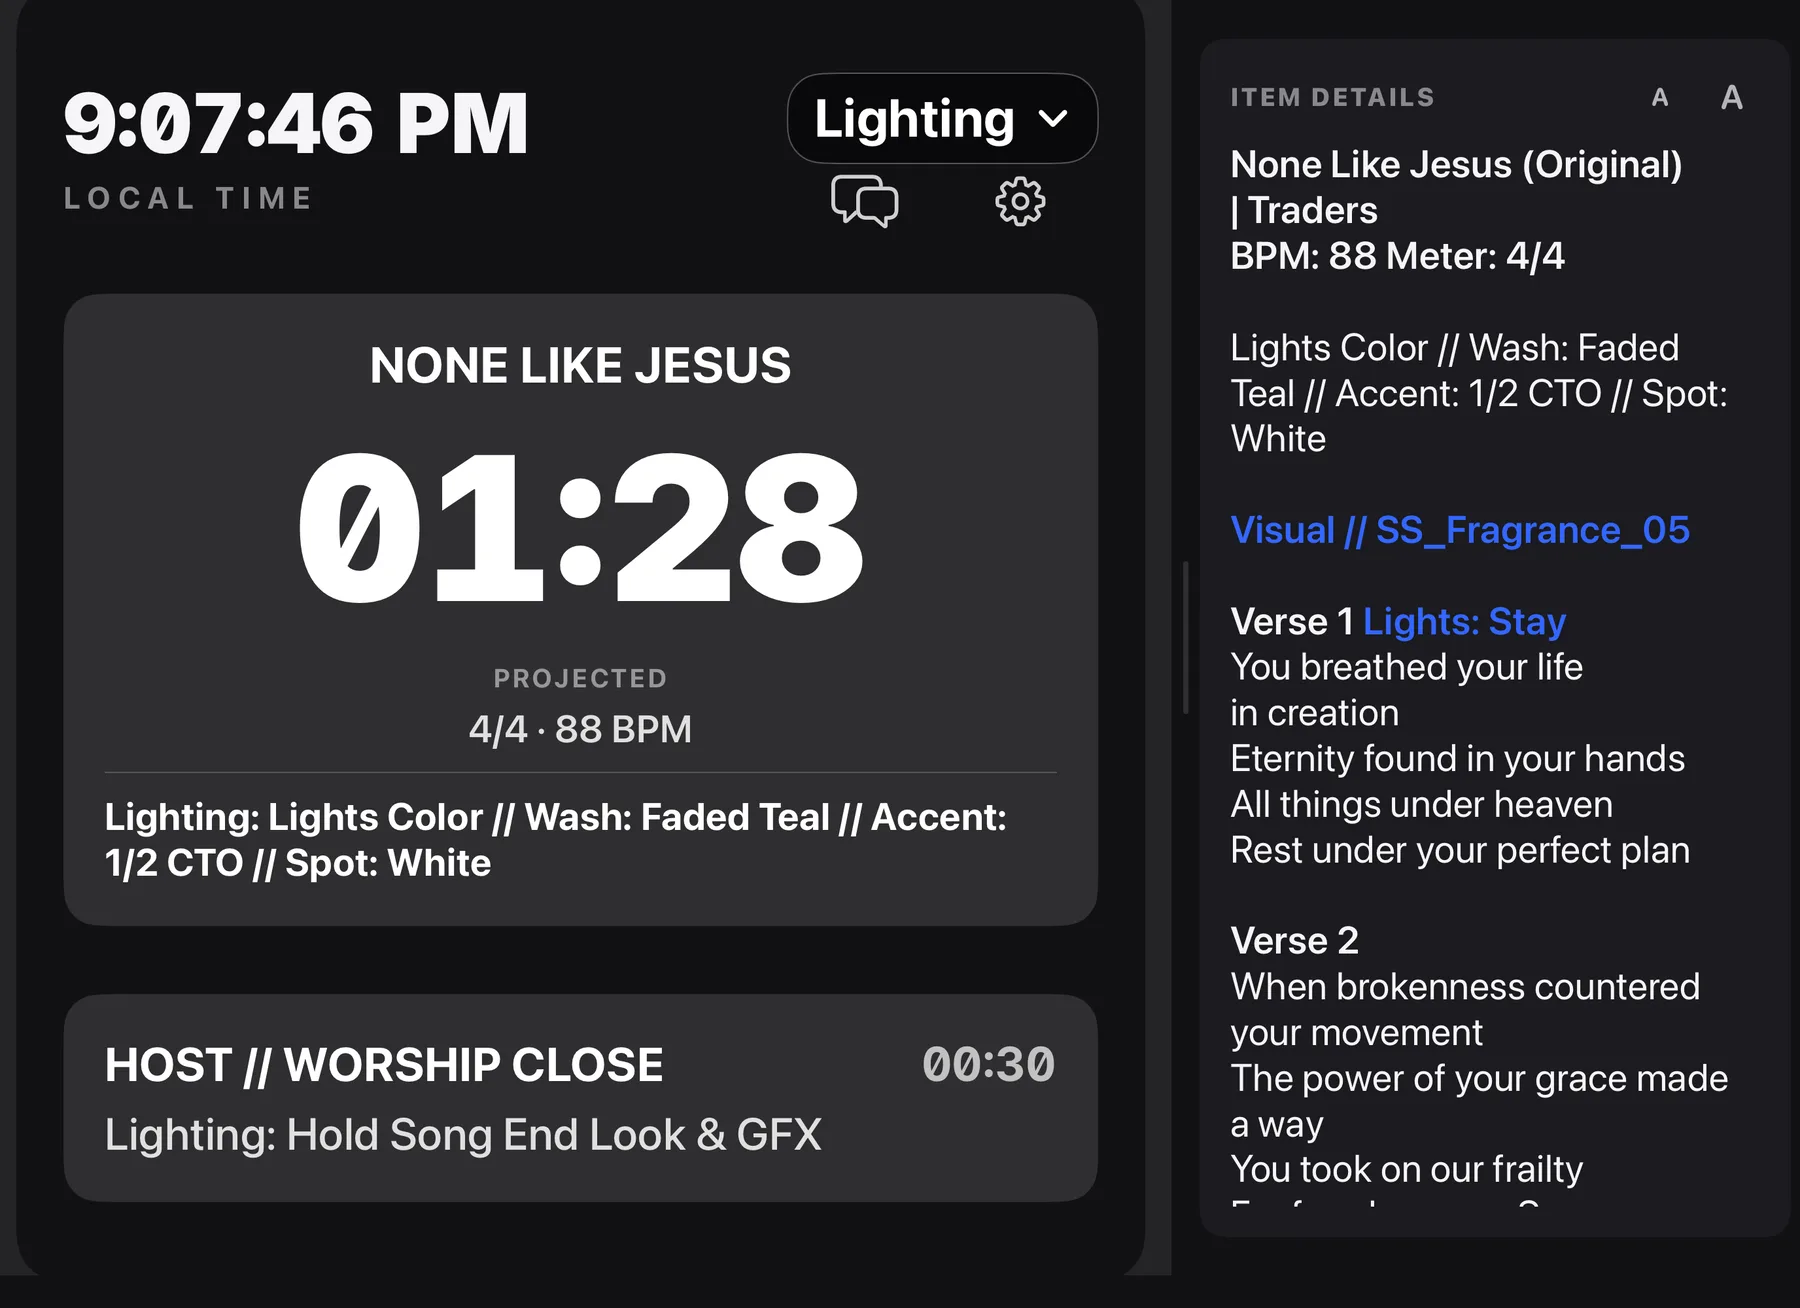
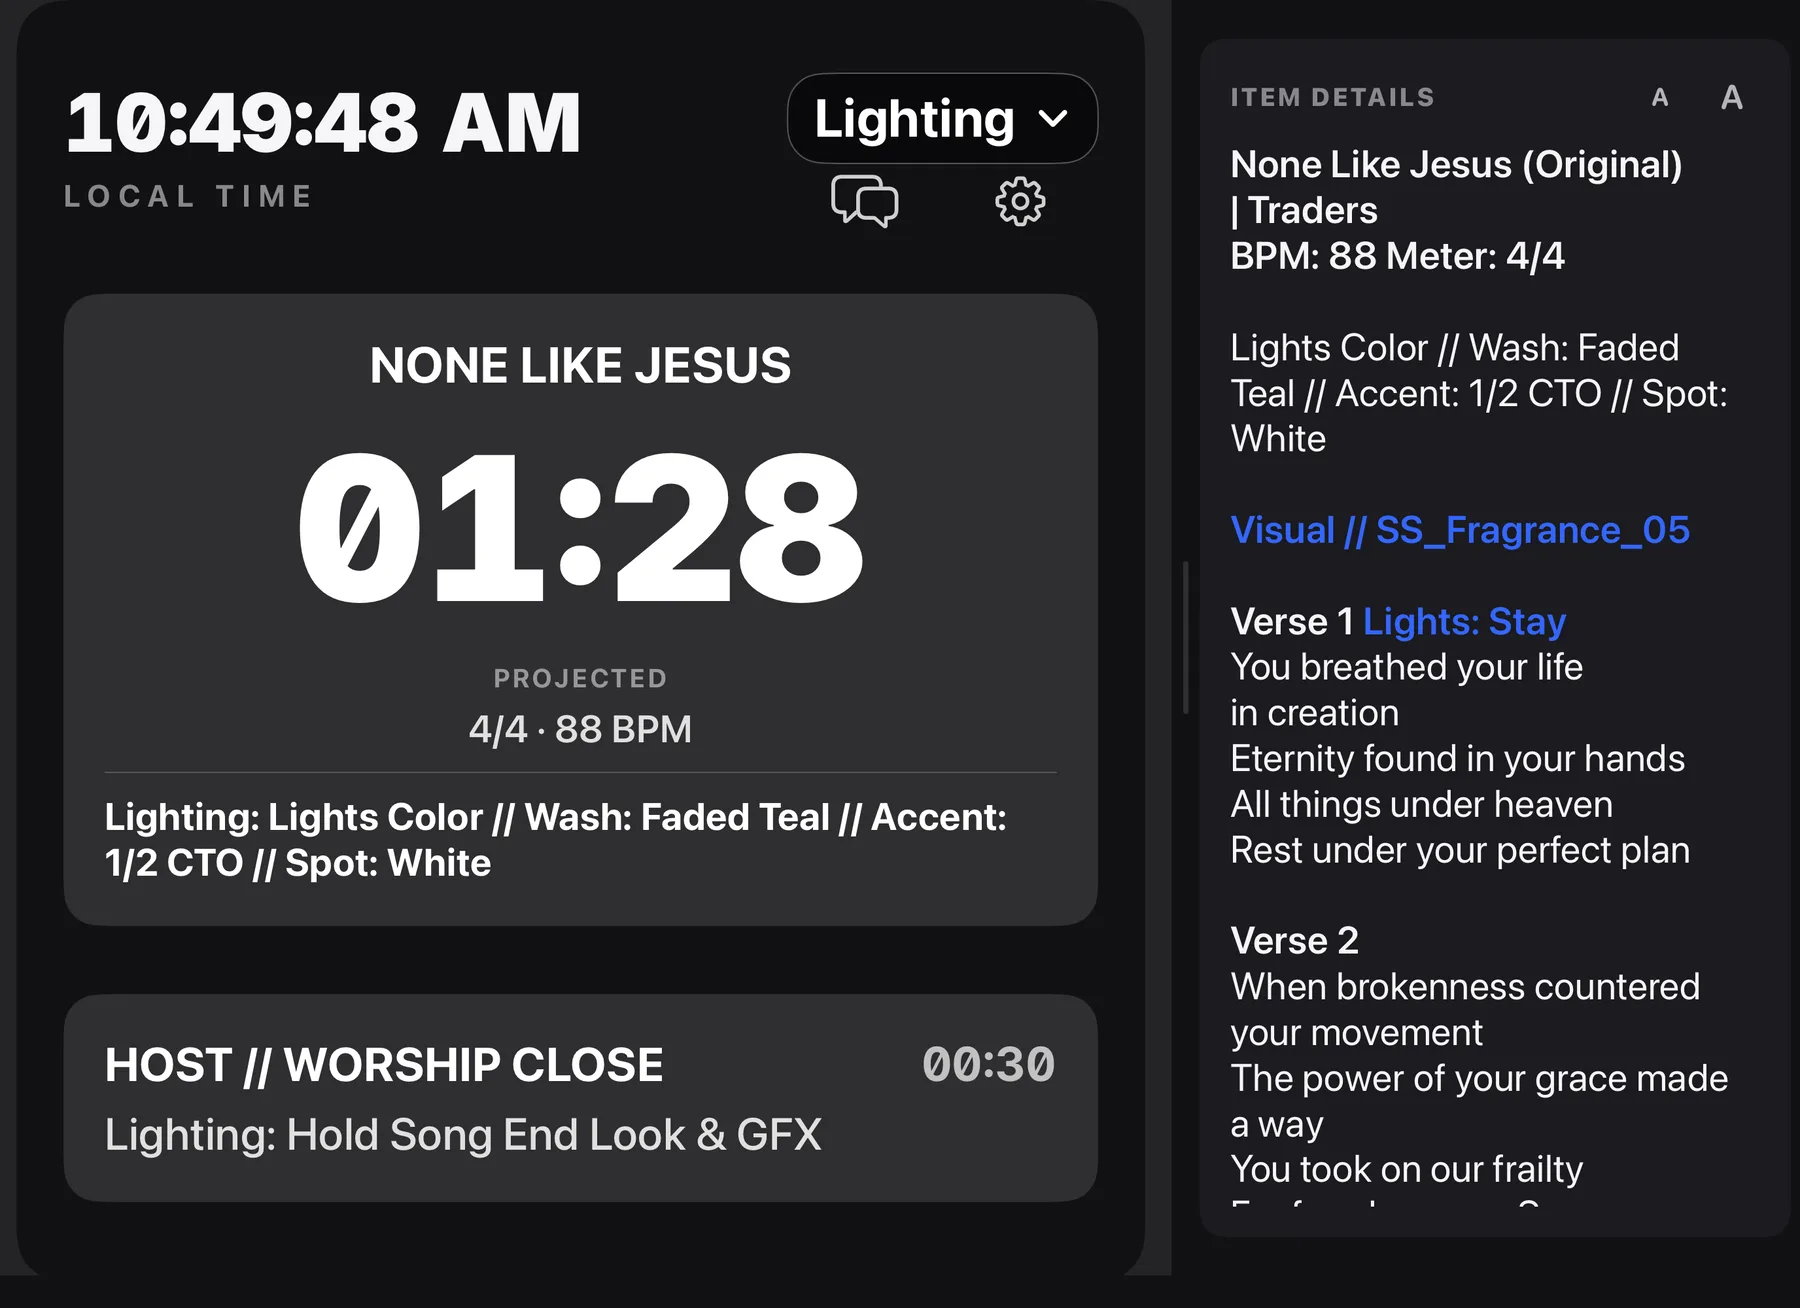
Refresh device screenshots and frame the hero phone
- Hero phone: the real iPhone STANDBY capture from 1.7.0-14 pager-ios,
  in the same drawn iPhone frame as the role tile, replacing the
  masked crop of the Producer's preview.
- iPad details split now comes from the 1.7.0-14 pager-ipad set.
- Lower third re-pulled from the latest pager-mac capture.
- DESIGN.md: every pager screenshot is a real capture in a frame for
  its device.

Changed region(s): [[0.0311, 0.0612, 0.3422, 0.1223]]

diff --git a/_includes/hero.html b/_includes/hero.html
@@ -7,7 +7,7 @@
 </div>
 <div class="deck">
 <div class="setlist" aria-hidden="true"><span class="strip l"></span><span class="strip r"></span><h3>Sunday 8:05</h3><ol><li class="done">Doors</li><li class="done">Pre-roll</li><li class="done">Just That Good</li><li class="now">None Like Jesus</li><li>Worship close</li><li>Welcome</li></ol></div>
-<figure class="pager-shot"><img src="{{ '/assets/img/app/pager-standby.webp' | relative_url }}" width="590" height="1213" alt="The 13 Years Pager for the Host role: STANDBY in amber, the song None Like Jesus, a 05:42 countdown, and Host // Worship Close coming up next."></figure>
+<figure class="pager-shot iphone"><img src="{{ '/assets/img/app/pager-standby.webp' | relative_url }}" width="590" height="1282" alt="The 13 Years Pager on iPhone for the Host role: STANDBY in amber, the song None Like Jesus, a 01:28 countdown, and Host // Worship Close coming up next."></figure>
 <figure class="cue-shot print"><span class="strip" aria-hidden="true"></span><img src="{{ '/assets/img/app/producer-cue-buttons.webp' | relative_url }}" width="697" height="311" alt="The Producer's cue buttons: previous, play, restart, next, STANDBY, GO and CLEAR."></figure>
 <p class="cap">the producer’s buttons, and what the host sees</p>
 </div>

diff --git a/_includes/roles.html b/_includes/roles.html
@@ -12,7 +12,7 @@
 <h3>ESP32 hardware</h3><p>A small dedicated pager for crew who would rather not hold a phone on stage. <span class="note">(Mac pager at the ESP32’s screen size)</span></p>
 </div>
 <div class="role wide">
-<figure class="tv"><div class="screen"><img src="{{ '/assets/img/app/pager-lower-third.webp' | relative_url }}" width="1600" height="200" loading="lazy" alt="Pager in lower-third layout over a program feed: local time 10:30:09 AM, None Like Jesus, and 01:28 projected."></div></figure>
+<figure class="tv"><div class="screen"><img src="{{ '/assets/img/app/pager-lower-third.webp' | relative_url }}" width="1600" height="200" loading="lazy" alt="Pager in lower-third layout over a program feed: local time 10:38:44 AM, None Like Jesus, and 01:28 projected."></div></figure>
 <h3>Lower third</h3><p>A slim strip with the time, the item and its countdown over your own picture, for an Apple TV or a confidence monitor. STANDBY and GO take over when they’re called.</p>
 </div>
 </div>

diff --git a/DESIGN.md b/DESIGN.md
@@ -17,7 +17,7 @@ The site is the stage floor before a show. A Sharpie setlist is gaffer-taped dow
 - **Tape button:** torn-edge rectangle, uppercase Barlow 800. Primary is green spike tape, secondary is white paper.
 - **Taped print:** a screenshot on white with two tape strips at opposite corners.
 - **Callout dot:** a numbered spike-tape circle with a 3px ink ring, placed on a screenshot and matched by a numbered list beside it. Dots sit beside the UI they point at, not on top of it.
-- **Pager screenshots:** cropped from the Producer's pager preview and masked to the phone shape (`border-radius:15%/7.5%`). A real iPhone capture (`pager-ios`) instead sits in a drawn iPhone frame (`.pager-shot.iphone`).
+- **Pager screenshots:** real device captures in a drawn frame for their device: iPhone (`.pager-shot.iphone`, from `pager-ios`), iPad (`device: ipad` in `shots.yml`), the ESP32 board, and the TV for the lower third.
 
 ## Imagery
 - Use real screenshots from `Screenshots/<version>/<app>` in the app repo (`producer-mac`, `pager-mac`, `pager-ipad`), converted to WebP in `assets/img/app/`. Re-crop when a new version ships.
